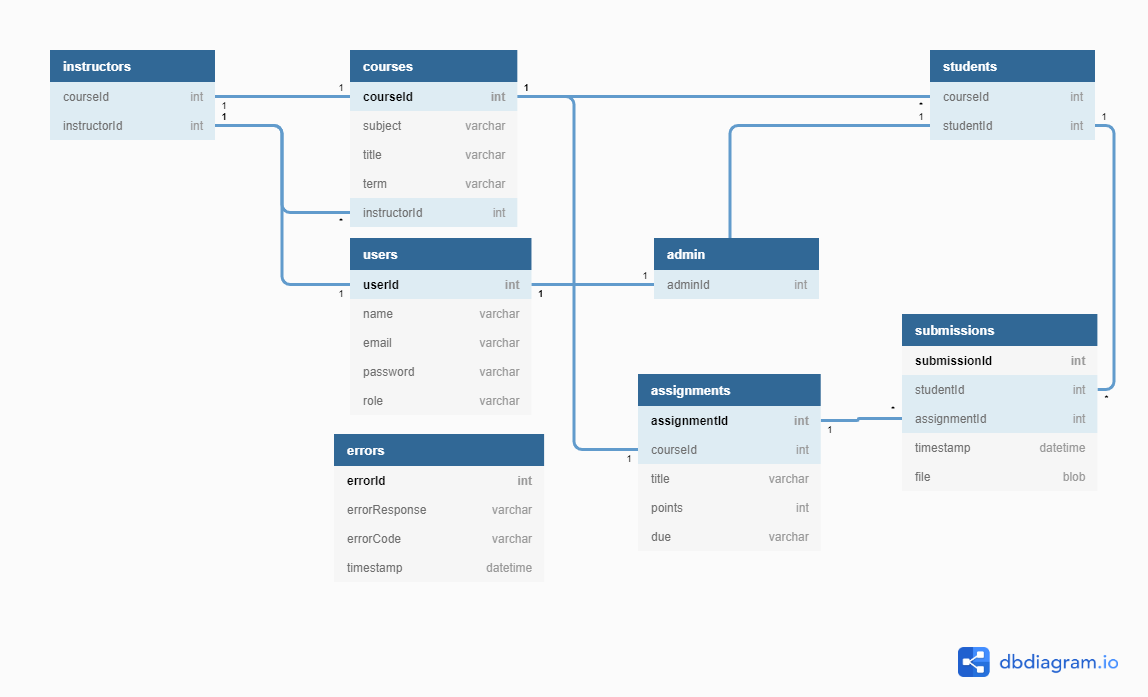
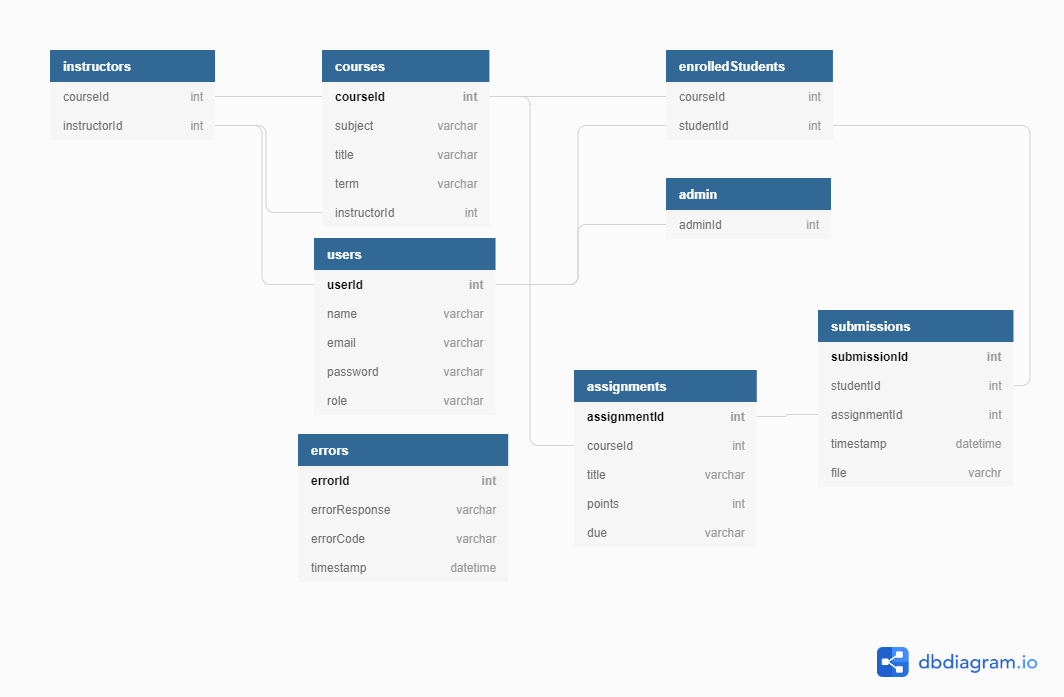
Wrapping up documentation and test script

diff --git a/lib/mysqlPool.js b/lib/mysqlPool.js
@@ -8,7 +8,7 @@ const mysql = require('mysql2/promise');
 const mysqlPool = mysql.createPool({
   connectionLimit: 10,
   host: process.env.MYSQL_HOST || 'localhost',
-  port: process.env.MYSQL_PORT || 3312,
+  port: process.env.MYSQL_PORT || 3310,
   database: process.env.MYSQL_DATABASE,
   user: process.env.MYSQL_USER,
   password: process.env.MYSQL_PASSWORD

diff --git a/README.md b/README.md
@@ -3,9 +3,40 @@
 Tarpaulin is a lightweight course management tool. This project practices the implementation of a RESTful API. Utilizing Node.js, express and mysql. While being completely dockerized for deployable enviornments. Tarpaulin consists of Users, Courses, Assignments and Submissions. Each represented as a resource. 
 
 ## API Architecture Diagram
+![](projimages/REST.png)
+The API is designed to be a REpresentational State Transfer (REST) API. Each endpoint is predefined with stateless operations. Minimizing the payload size sent through a HTTP request. A Restful approach was taken because
+REST is the most efficient and widespread standard in the creation of APIs for internet services. 
 
+![](projimages/archfig1.png)
+The figure above represents a secure transaction architecture. Once a user provides
+authenticated credentials in the login endpoint. The server grants the client a JWT token for
+future requests. JWT tokens are used to authenticate future client requests. This reduces
+eavesdroppers from receiving user information for transaction security
+
+![](projimages/archfig2.png)
+All error messages are saved into the database. This is for debugging the API and also
+monitoring it’s activity. In every else or catch block that would otherwise send a res.status(4xx)
+message. next() is instead called where it is routed to a use( catchall ) middleware function in
+server.js. It stores the message to the server then dispatches the message to the client.
+
+### API Data Layout 
 ![](projimages/database.png)
+Users store every user that creates an account. Any user can create a student account where
+only admins can create other admins or instructors. Therefore the relationship between usersadmins, is a 1 to 1 relationship. The Instructors table not only stores an instructorId, but also the
+classId they teach so their instructorId may appear more than once if they teach multiple
+classes. Therefore the relationship is 1 to many. For enrolledStudents it is a similar design. Any
+class they may be enrolled in is another entry in the table. Making the relationship between
+users-enrolledStudents 1 to many.
 
+Courses table stores course information. Only admins can create courses. Students who are
+enrolled in the courses may use a inner join to find their relationship. CourseId is a foreign key
+in instructors, enrolledStudents, and assignments tables. The assignments table stores
+assignments created by instructors or admins. It is restricted to being created by the instructor of
+the same class. Like users-enrolledStudents or users-instructors table relationships.
+Assignments has a similar relationship with submissions. A one the many relationship. Classes
+may have many students. An assignment for a course receives many assignment submissions.
+
+![](projimages/plevel.png)
 The database consists of 4 main tables:
 * users
 * courses
@@ -17,4 +48,8 @@ Each user has a role which grants them different levels of data privlidge
 * instructor
 * student
 
-### Layer by Layer
+### Third Party Tools 
+![](projimages/tools.png)
+JQ is a great tool for bash that parses a curl request into json. This enabled creating test scripts
+with dynamic values. Creating CSV files was simple with Json2CSV. A third party tool used to
+parse json with dynamic headers into a CSV file.
